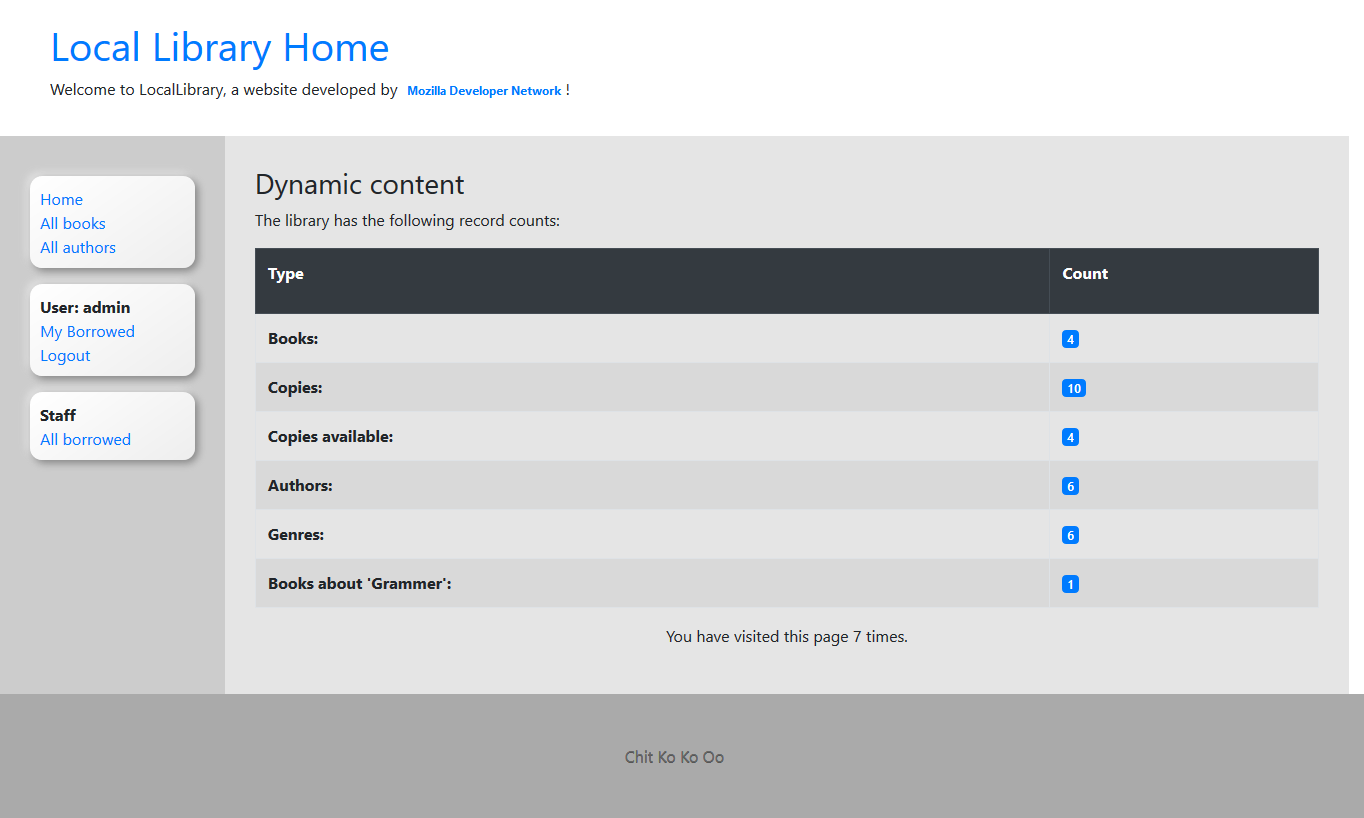
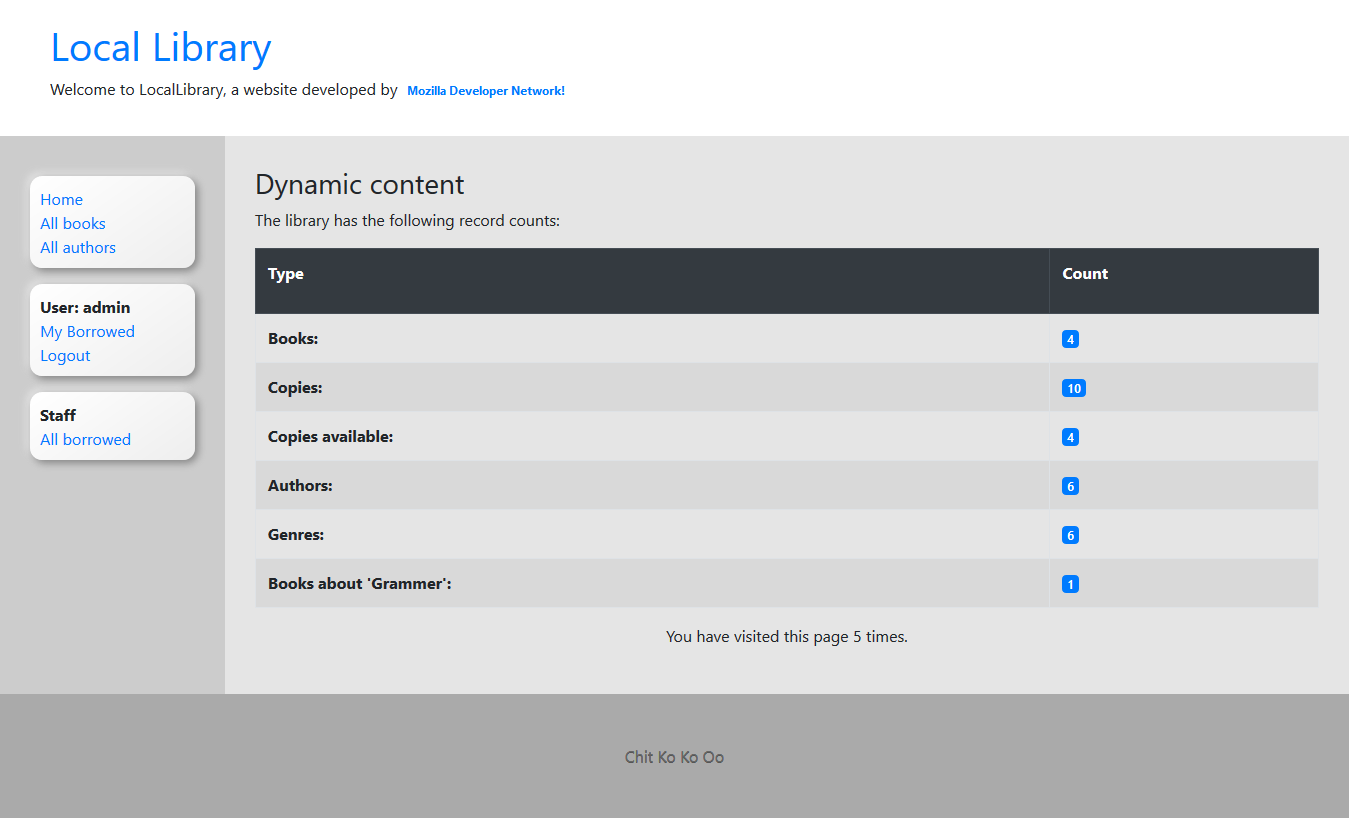
replace screenshots

diff --git a/locallibrary/catalog/templates/base_generic.html b/locallibrary/catalog/templates/base_generic.html
@@ -10,13 +10,17 @@
 	{% load static %}
 	<link rel="stylesheet" href="{% static 'css/style.css' %}">
 </head>
+
 <body>
 	<div class="container-fluid">
 		<div class="row branding">
 			<div class="col-md-12">
 				<h1><a href="{% url 'index' %}">Local Library</a></h1>
 				<p>Welcome to LocalLibrary, a website developed by 
-					<a href="https://developer.mozilla.org/en-US/docs/Learn/Server-side/Django" class="badge" target="_blank">Mozilla Developer Network</a>!</p>
+					<a href="https://developer.mozilla.org/en-US/docs/Learn/Server-side/Django" class="badge" target="_blank">
+						Mozilla Developer Network!
+					</a>
+				</p>
 			</div>
 		</div>
 	</div>
@@ -72,7 +76,7 @@
 			{% endblock %}
 		</div>
 	</div>
-	<div class="contain">
+	<div class="container-fluid">
 		<div class="row">
 			<div class="col-12 footer text-center">
 				Chit Ko Ko Oo
